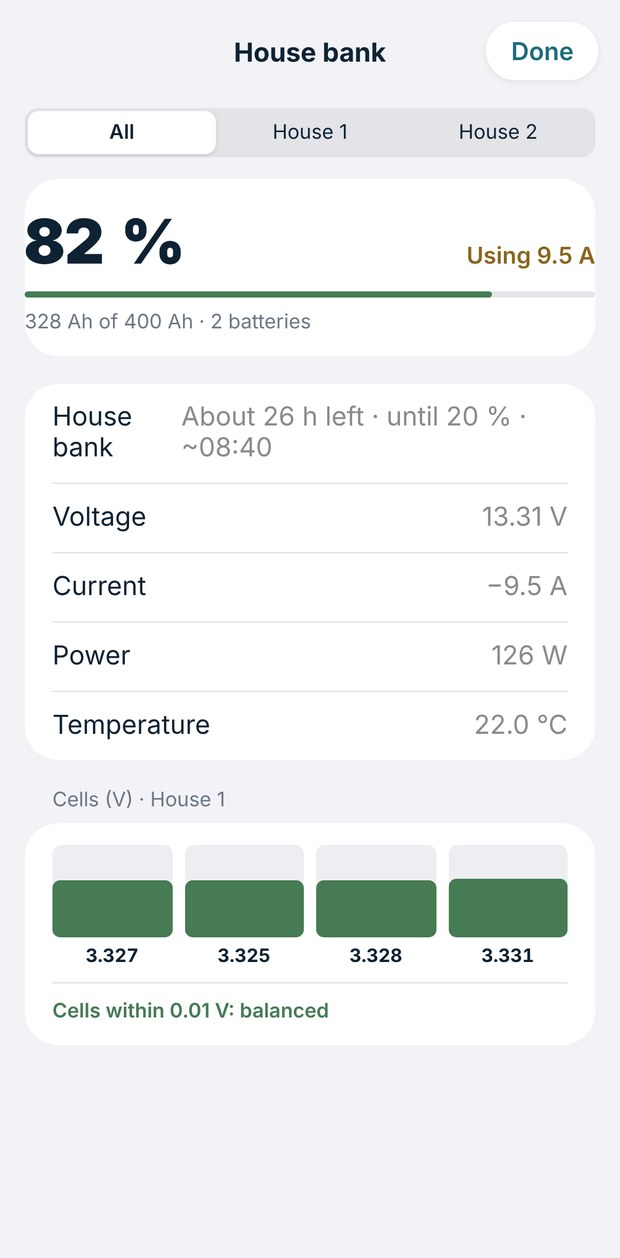
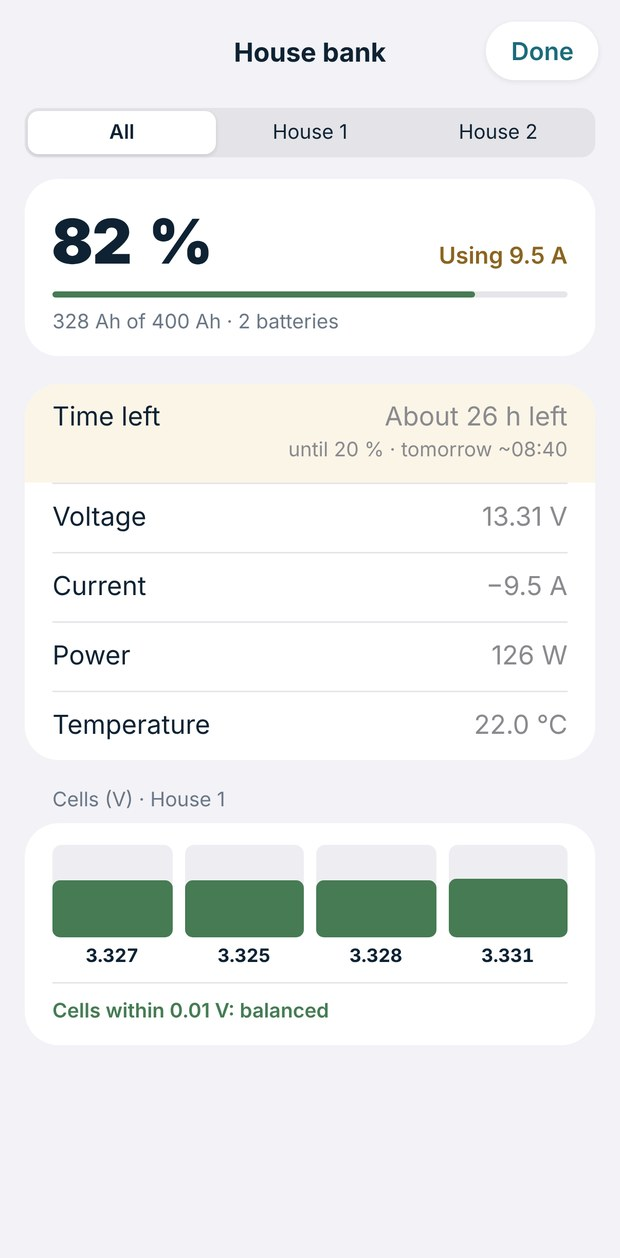
Website: the battery picture with Time left as the app now shows it (tomorrow ~08:40)
Claude-Session: https://claude.ai/code/session_01L3i533V58JRPqQEedndtqT

diff --git a/fr/index.html b/fr/index.html
@@ -498,7 +498,7 @@ footer a{white-space:nowrap}
         </ul>
         <p style="font-size:14px;color:var(--mute)">Dockbook ne fait que lire : il ne modifie jamais aucun réglage de votre passerelle ni de vos batteries. À titre informatif, pas pour la navigation : vérifiez toujours votre sondeur.</p>
       </div>
-      <div class="demo has-shot"><div class="pair"><div class="shot"><img loading="lazy" src="/images/shot-instruments.jpg" alt="Instruments : la vitesse avec le régime et les heures des deux moteurs, le carburant et les réservoirs, le vent, la profondeur, la température de l’eau et les batteries"></div><div class="shot"><img loading="lazy" src="/images/shot-batteries.jpg" alt="Une batterie de service formée de deux batteries au lithium : charge, autonomie, tension, courant, puissance, température et chaque cellule"></div></div></div>
+      <div class="demo has-shot"><div class="pair"><div class="shot"><img loading="lazy" src="/images/shot-instruments.jpg" alt="Instruments : la vitesse avec le régime et les heures des deux moteurs, le carburant et les réservoirs, le vent, la profondeur, la température de l’eau et les batteries"></div><div class="shot"><img loading="lazy" src="/images/shot-batteries.jpg?v=2" alt="Une batterie de service formée de deux batteries au lithium : charge, autonomie, tension, courant, puissance, température et chaque cellule"></div></div></div>
     </article>
   </div>
 </section>

diff --git a/es/index.html b/es/index.html
@@ -498,7 +498,7 @@ footer a{white-space:nowrap}
         </ul>
         <p style="font-size:14px;color:var(--mute)">Dockbook solo lee: nunca cambia ningún ajuste de tu pasarela ni de tus baterías. A título informativo, no para navegar: consulta siempre tu sonda.</p>
       </div>
-      <div class="demo has-shot"><div class="pair"><div class="shot"><img loading="lazy" src="/images/shot-instruments.jpg" alt="Instrumentos: velocidad con las RPM y las horas de ambos motores, combustible y tanques, viento, profundidad, temperatura del agua y baterías"></div><div class="shot"><img loading="lazy" src="/images/shot-batteries.jpg" alt="Una batería de servicio formada por dos baterías de litio: carga, autonomía, voltaje, corriente, potencia, temperatura y cada celda"></div></div></div>
+      <div class="demo has-shot"><div class="pair"><div class="shot"><img loading="lazy" src="/images/shot-instruments.jpg" alt="Instrumentos: velocidad con las RPM y las horas de ambos motores, combustible y tanques, viento, profundidad, temperatura del agua y baterías"></div><div class="shot"><img loading="lazy" src="/images/shot-batteries.jpg?v=2" alt="Una batería de servicio formada por dos baterías de litio: carga, autonomía, voltaje, corriente, potencia, temperatura y cada celda"></div></div></div>
     </article>
   </div>
 </section>

diff --git a/it/index.html b/it/index.html
@@ -498,7 +498,7 @@ footer a{white-space:nowrap}
         </ul>
         <p style="font-size:14px;color:var(--mute)">Dockbook si limita a leggere: non modifica mai alcuna impostazione del gateway o delle batterie. A titolo informativo, non per la navigazione: controlla sempre l’ecoscandaglio.</p>
       </div>
-      <div class="demo has-shot"><div class="pair"><div class="shot"><img loading="lazy" src="/images/shot-instruments.jpg" alt="Strumenti: velocità con giri e ore di entrambi i motori, carburante e serbatoi, vento, profondità, temperatura dell’acqua e batterie"></div><div class="shot"><img loading="lazy" src="/images/shot-batteries.jpg" alt="Un banco batterie servizi con due batterie al litio: carica, autonomia, tensione, corrente, potenza, temperatura e ogni cella"></div></div></div>
+      <div class="demo has-shot"><div class="pair"><div class="shot"><img loading="lazy" src="/images/shot-instruments.jpg" alt="Strumenti: velocità con giri e ore di entrambi i motori, carburante e serbatoi, vento, profondità, temperatura dell’acqua e batterie"></div><div class="shot"><img loading="lazy" src="/images/shot-batteries.jpg?v=2" alt="Un banco batterie servizi con due batterie al litio: carica, autonomia, tensione, corrente, potenza, temperatura e ogni cella"></div></div></div>
     </article>
   </div>
 </section>

diff --git a/index.html b/index.html
@@ -498,7 +498,7 @@ footer a{white-space:nowrap}
         </ul>
         <p style="font-size:14px;color:var(--mute)">Dockbook only reads: it never changes a setting on your gateway or your batteries. For information, not for navigation: always check your depth sounder.</p>
       </div>
-      <div class="demo has-shot"><div class="pair"><div class="shot"><img loading="lazy" src="/images/shot-instruments.jpg" alt="Instruments: speed with both engines’ RPM and hours, fuel and tanks, wind, depth, water temperature and batteries"></div><div class="shot"><img loading="lazy" src="/images/shot-batteries.jpg" alt="A house bank of two lithium batteries: charge, time left, voltage, current, power, temperature and each cell"></div></div></div>
+      <div class="demo has-shot"><div class="pair"><div class="shot"><img loading="lazy" src="/images/shot-instruments.jpg" alt="Instruments: speed with both engines’ RPM and hours, fuel and tanks, wind, depth, water temperature and batteries"></div><div class="shot"><img loading="lazy" src="/images/shot-batteries.jpg?v=2" alt="A house bank of two lithium batteries: charge, time left, voltage, current, power, temperature and each cell"></div></div></div>
     </article>
   </div>
 </section>

diff --git a/_i18n/en-source.html b/_i18n/en-source.html
@@ -490,7 +490,7 @@ footer a{white-space:nowrap}
         </ul>
         <p style="font-size:14px;color:var(--mute)">Dockbook only reads: it never changes a setting on your gateway or your batteries. For information, not for navigation: always check your depth sounder.</p>
       </div>
-      <div class="demo has-shot"><div class="pair"><div class="shot"><img loading="lazy" src="images/shot-instruments.jpg" alt="Instruments: speed with both engines’ RPM and hours, fuel and tanks, wind, depth, water temperature and batteries"></div><div class="shot"><img loading="lazy" src="images/shot-batteries.jpg" alt="A house bank of two lithium batteries: charge, time left, voltage, current, power, temperature and each cell"></div></div></div>
+      <div class="demo has-shot"><div class="pair"><div class="shot"><img loading="lazy" src="images/shot-instruments.jpg" alt="Instruments: speed with both engines’ RPM and hours, fuel and tanks, wind, depth, water temperature and batteries"></div><div class="shot"><img loading="lazy" src="images/shot-batteries.jpg?v=2" alt="A house bank of two lithium batteries: charge, time left, voltage, current, power, temperature and each cell"></div></div></div>
     </article>
   </div>
 </section>
